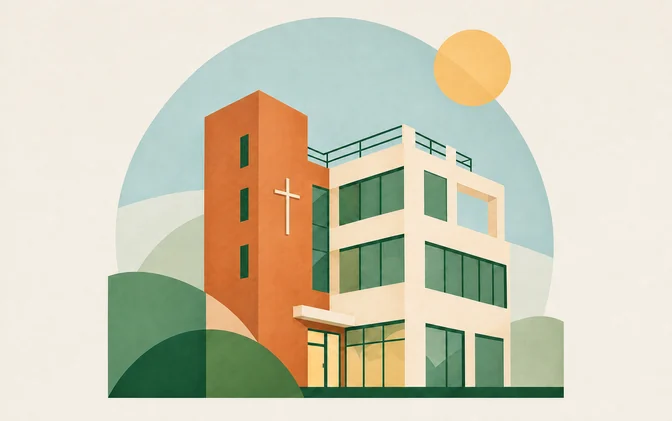
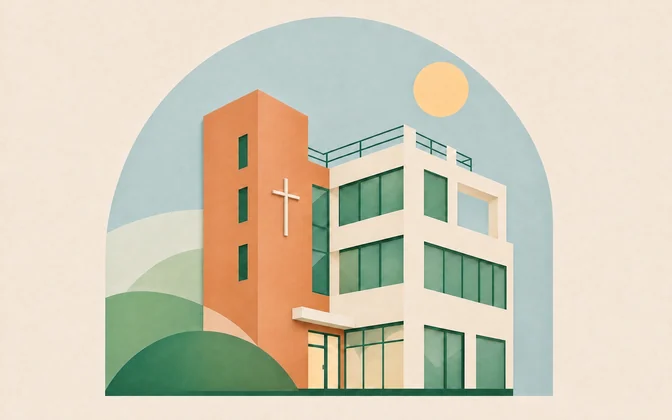
홈 첫 화면에 밝기를 조정한 성전 아치 일러스트 적용 (#943)

diff --git a/index.html b/index.html
@@ -89,8 +89,8 @@
                 <h1 id="hero-title"></h1>
                 <p class="hero-sub" id="hero-sub"></p>
             </div>
-            <img class="hero-illustration home-hero-image" src="images/hero/church-home-bauhaus-672.webp?v=2"
-                 srcset="images/hero/church-home-bauhaus-672.webp?v=2 672w, images/hero/church-home-bauhaus-960.webp?v=2 960w, images/hero/church-home-bauhaus-1344.webp?v=2 1344w, images/hero/church-home-bauhaus-1586.webp?v=2 1586w"
+            <img class="hero-illustration home-hero-image" src="images/hero/church-home-bauhaus-672.webp?v=3"
+                 srcset="images/hero/church-home-bauhaus-672.webp?v=3 672w, images/hero/church-home-bauhaus-960.webp?v=3 960w, images/hero/church-home-bauhaus-1344.webp?v=3 1344w, images/hero/church-home-bauhaus-1586.webp?v=3 1586w"
                  sizes="(min-width: 66rem) 32rem, (min-width: 800px) 50vw, 90vw" width="672" height="420"
                  alt="" fetchpriority="high">
             <div class="home-hero-visit" id="hero-actions">
